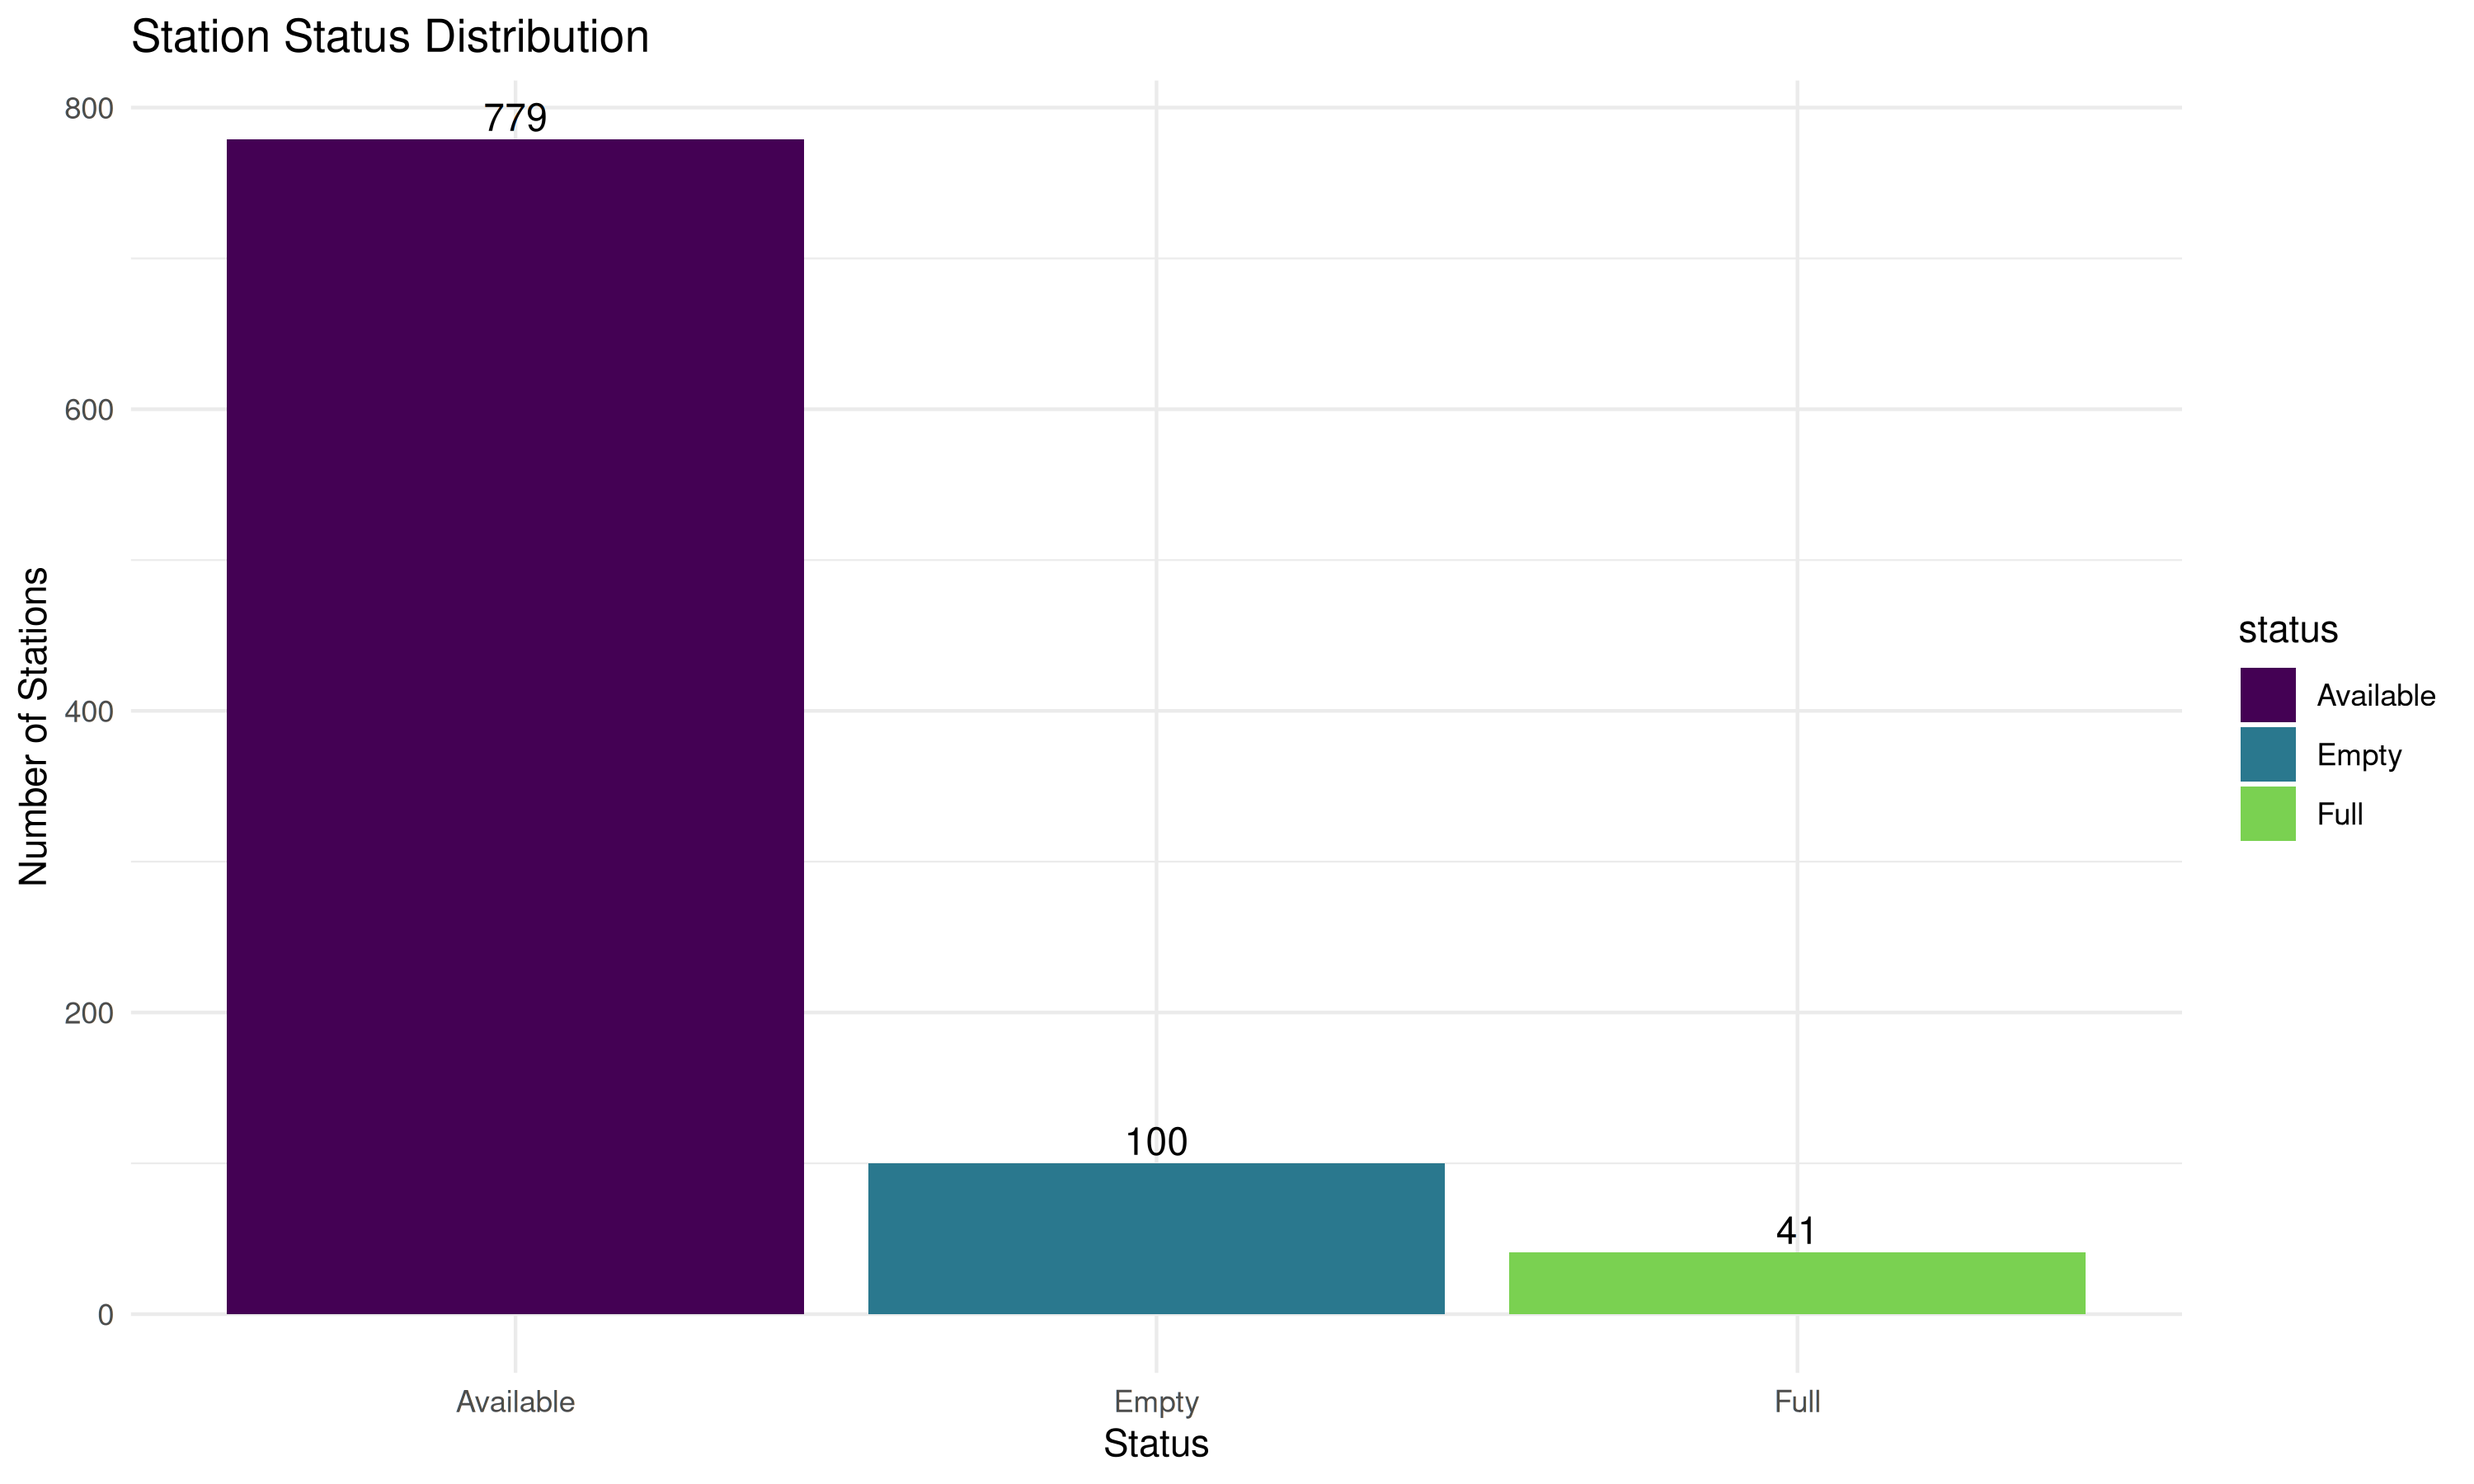
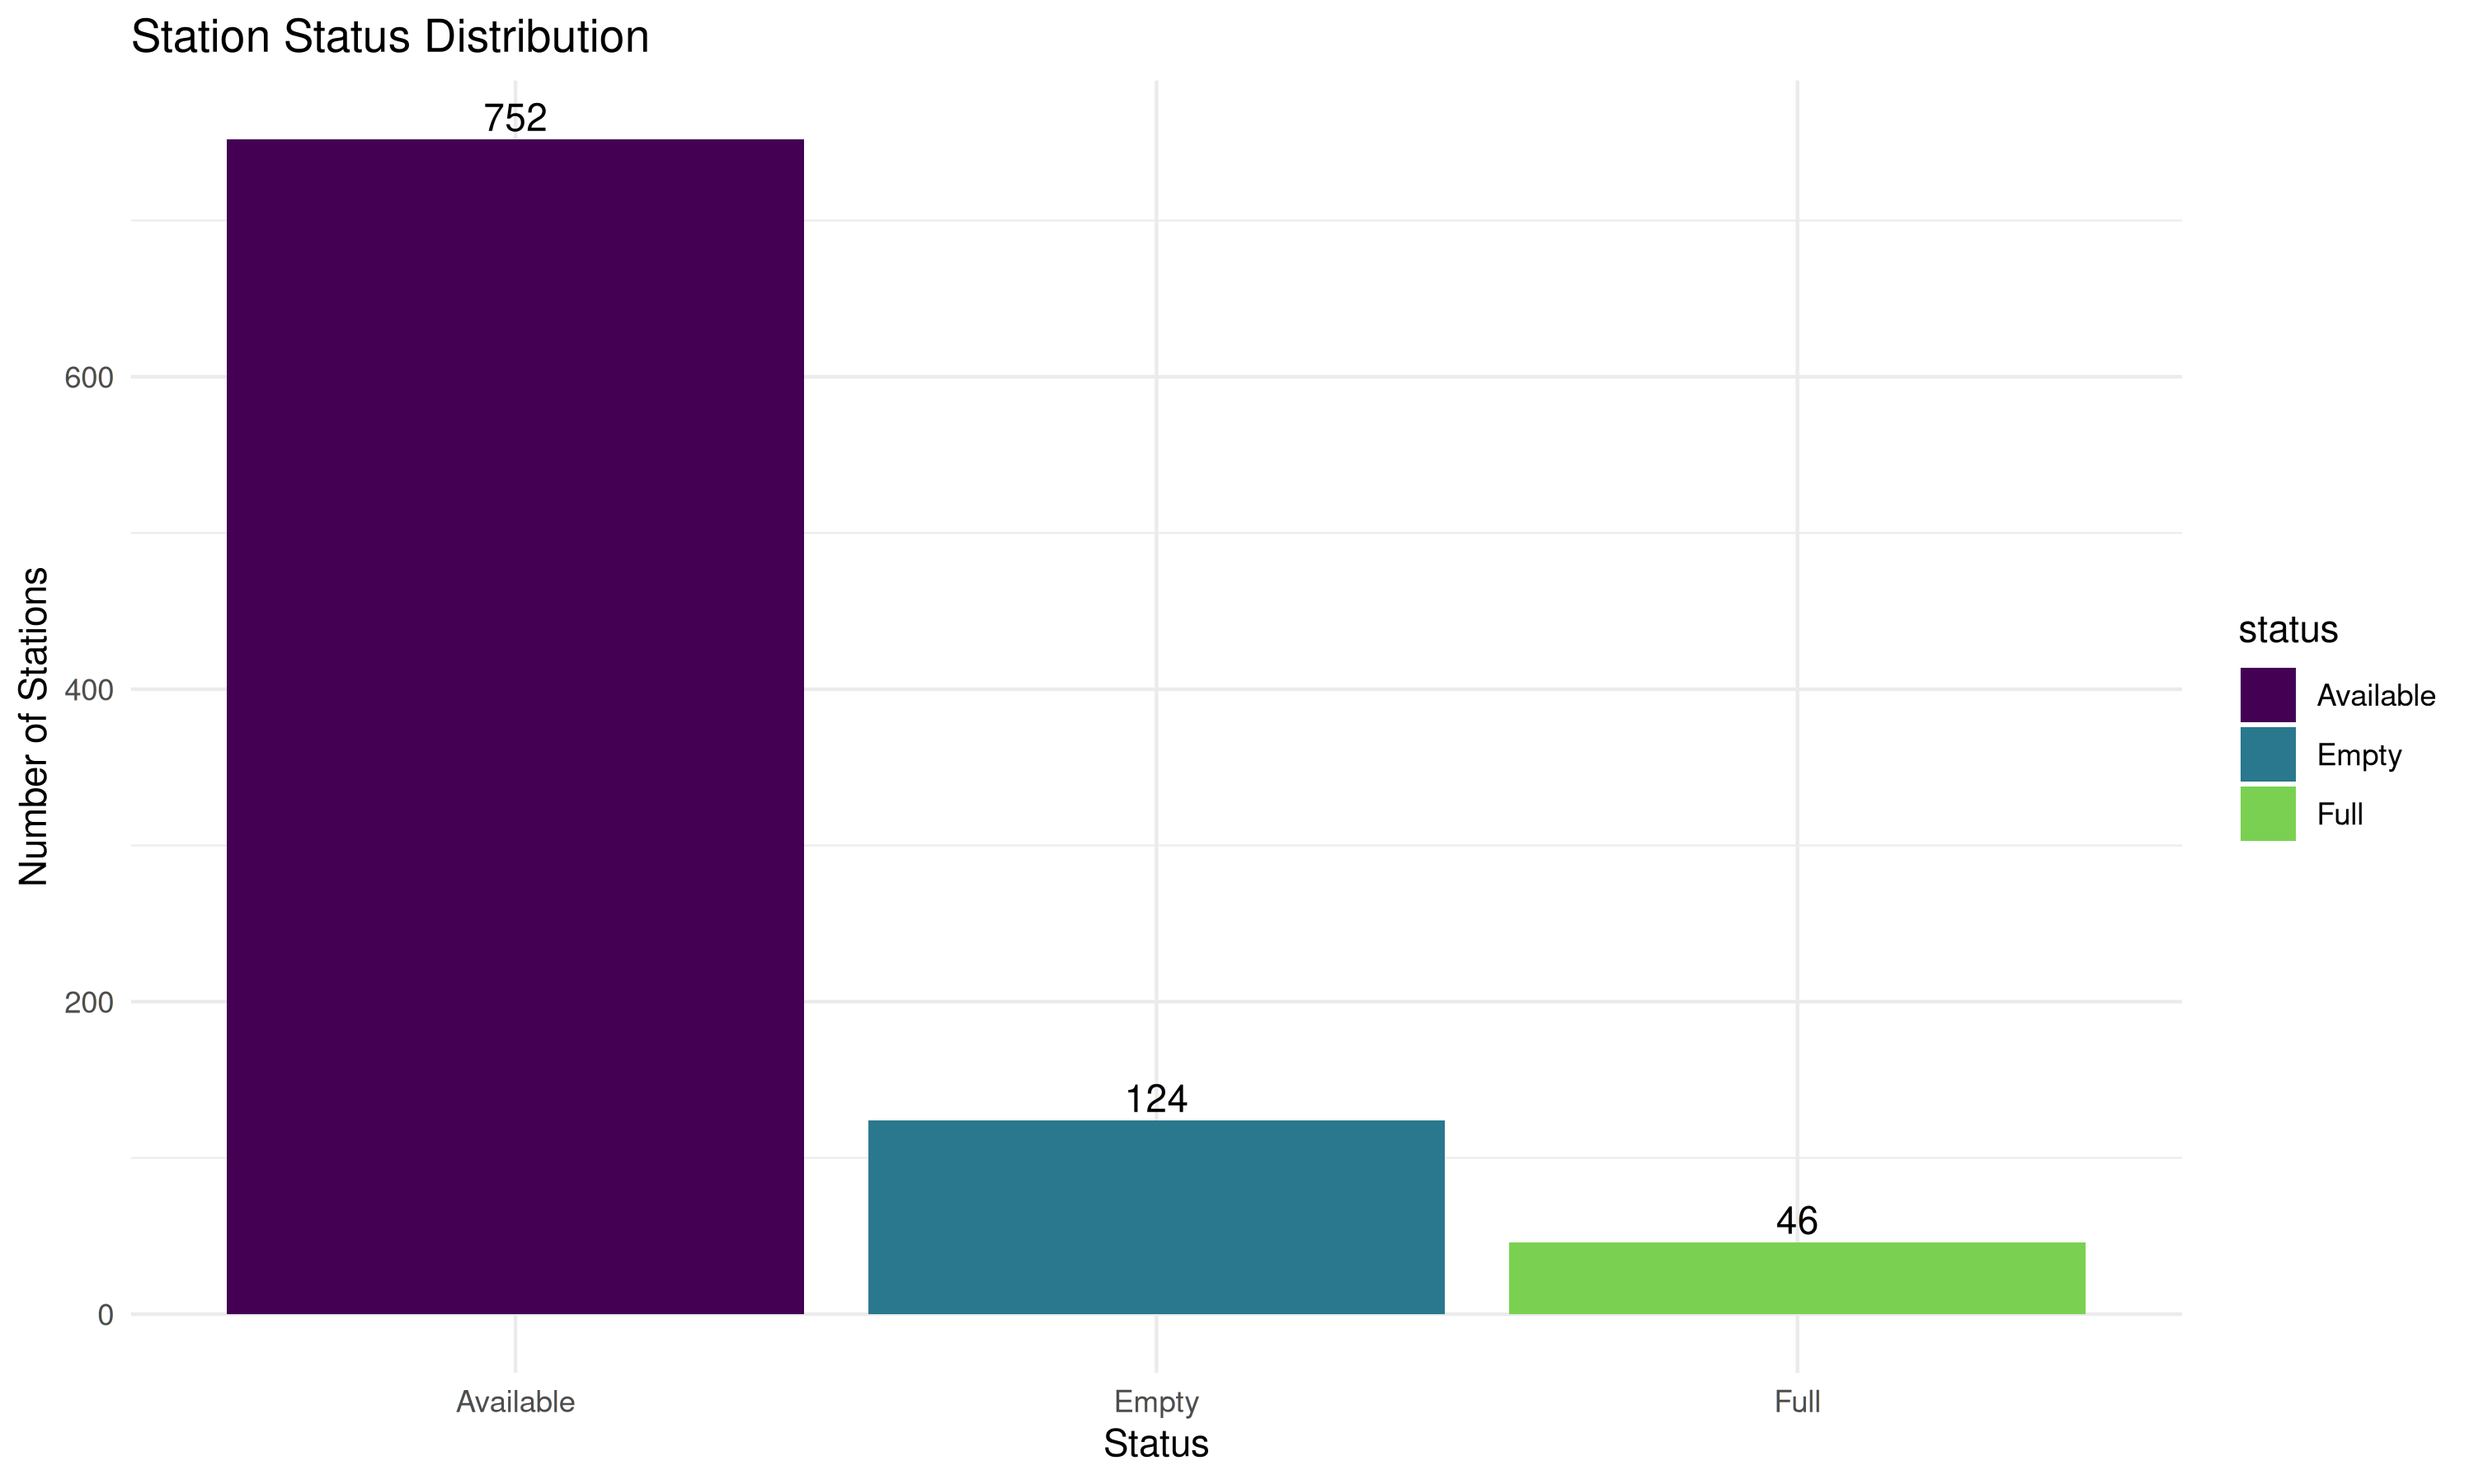
Update bike share dashboard

diff --git a/README.md b/README.md
@@ -1,51 +1,53 @@
 # 🚲 Toronto Bike Share Analytics
 
-Updated: 2025-07-06 23:14 (Toronto Time)
+Updated: 2025-07-07 21:12 (Toronto Time)
 
 ## 📊 System Overview
-- **Total bikes available:** 6,327
-- **Total docks available:** 10,109
-- **System utilization rate:** 38.5%
-- **Active stations:** 920/920 (100%)
-- **Average bikes per station:** 6.9
-- **Median station capacity:** 19
-- **Empty stations:** 100 (10.9%)
-- **Full stations:** 41 (4.5%)
+| Metric | Value | Change |
+|--------|-------|--------|
+| **Total bikes available** | 6,060 | N/A |
+| **Total docks available** | 10,296 | N/A |
+| **System utilization rate** | 37.1% | N/A |
+| **Active stations** | 922/922 (100%) | N/A |
+| **Average bikes per station** | 6.6 | N/A |
+| **Median station capacity** | 19 | - |
+| **Empty stations** | 124 (13.4%) | N/A |
+| **Full stations** | 46 (5%) | N/A |
 
 ## 🏆 Top 10 Stations by Bike Availability
 | Station | Bikes Available | Capacity |
 |---------|-----------------|----------|
-| Frederick St / King St E | 44 | 47 |
-| 2700 Eglinton Ave W | 34 | 43 |
-| Bloor St W / Shaw St - SMART | 33 | 34 |
-| Dundas St W / Crawford St | 31 | 47 |
-| Fort York  Blvd / Capreol Ct | 30 | 47 |
-| King St E / Berkeley St | 29 | 31 |
-| Centre Island Ferry Dock | 29 | 35 |
-| Queen St W / Ossington Ave | 28 | 31 |
-| 365 Lippincott St | 28 | 41 |
-| Niagara St / Richmond St W | 27 | 42 |
+| 144 Harrison St | 39 | 51 |
+| Frederick St / King St E | 39 | 47 |
+| 2700 Eglinton Ave W | 33 | 43 |
+| Bremner Blvd / Rees St | 31 | 49 |
+| Simcoe St / Queen St W | 29 | 39 |
+| Front St W / Yonge St (Hockey Hall of Fame) | 28 | 47 |
+| Hanna Ave / Liberty St | 28 | 32 |
+| Bathurst St/Queens Quay(Billy Bishop Airport) | 28 | 34 |
+| Western Battery Rd / Pirandello St | 28 | 29 |
+| Lisgar Park | 28 | 35 |
 
 ## 🏆 Top 10 Stations by Dock Availability
 | Station | Docks Available | Capacity |
 |---------|-----------------|----------|
-| Temperance St Station | 53 | 55 |
-| Bay St / Albert St | 52 | 63 |
-| York St / Queens Quay W | 47 | 57 |
-| Wellington St W / Bay St | 46 | 55 |
-| Cherry Beach | 46 | 49 |
-| Simcoe St / Pullan Pl | 43 | 47 |
-| Hanlan's Point Beach | 42 | 47 |
-| Front St W / Yonge St (Hockey Hall of Fame) | 40 | 47 |
-| Bloor St W / Manning Ave - SMART | 40 | 42 |
-| Humber Bay Shores Park / Marine Parade Dr | 39 | 63 |
+| Bay St / Albert St | 58 | 63 |
+| Bay St / Dundas St W | 53 | 55 |
+| Wellington St W / Bay St | 51 | 55 |
+| Simcoe St / Pullan Pl | 46 | 47 |
+| York St / Queens Quay W | 44 | 57 |
+| Bloor St W / Manning Ave - SMART | 42 | 42 |
+| Queens Quay / Yonge St | 41 | 46 |
+| Humber Bay Shores Park / Marine Parade Dr | 40 | 63 |
+| Hanlan's Point Beach | 39 | 47 |
+| Temperance St Station | 36 | 55 |
 
 ## 📊 Station Status Distribution
 | Status     | Number of Stations |
 |------------|-------------------:|
-| Empty      | 100 |
-| Full       | 41 |
-| Available  | 779 |
+| Empty      | 124 |
+| Full       | 46 |
+| Available  | 752 |
 
 ## 📍 Bike Locations
 ![Bike Locations](docs/plots/location_plot.png)
@@ -70,8 +72,8 @@ The data is collected from the Toronto Bike Share GBFS API at a single point in 
 
 ### Statistical Notes
 - The distribution of bikes across stations follows a right-skewed distribution
-- The mean availability is 35.4% with a standard deviation of 28.7%
-- The system is currently operating at 38% capacity
+- The mean availability is 34.3% with a standard deviation of 29%
+- The system is currently operating at 37% capacity
 
 ## ℹ Data Source
 Data is sourced from the [Toronto Bike Share GBFS API](https://tor.publicbikesystem.net/ube/gbfs/v1/en/station_status)
